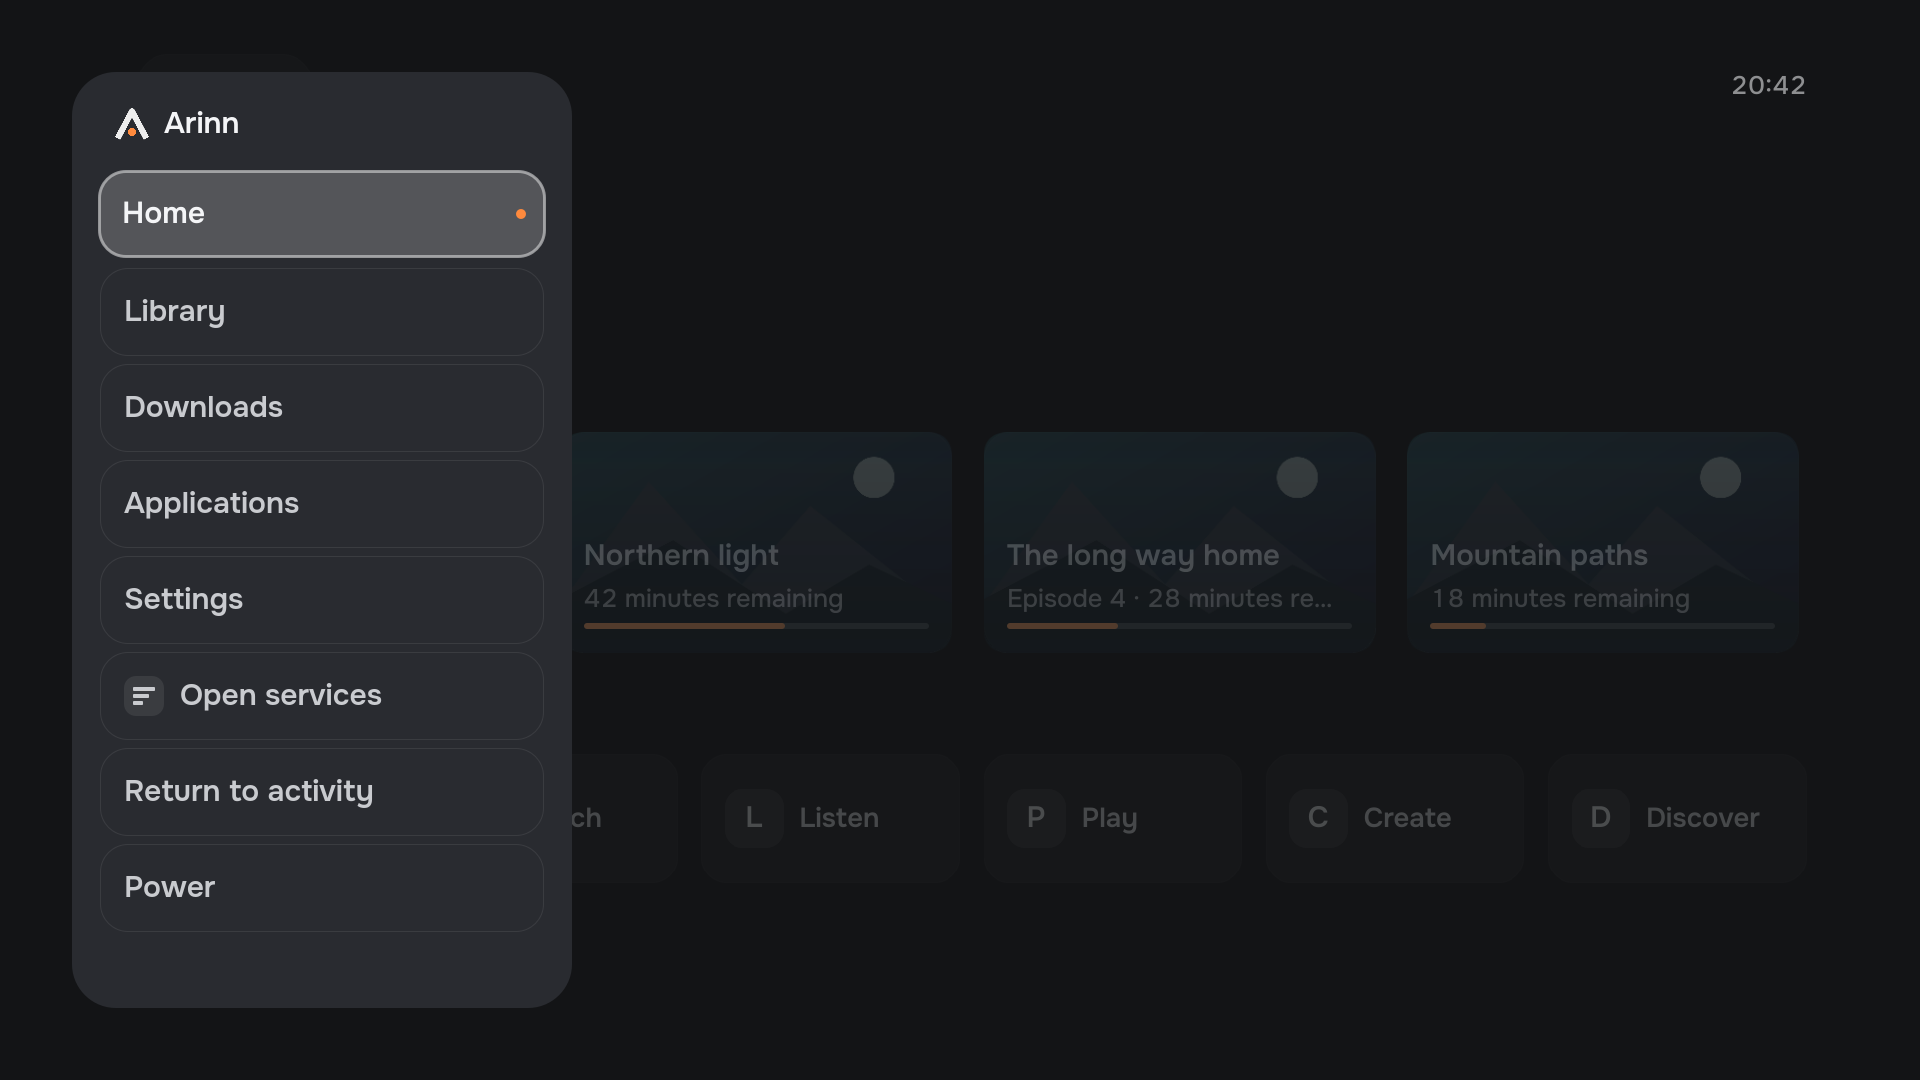
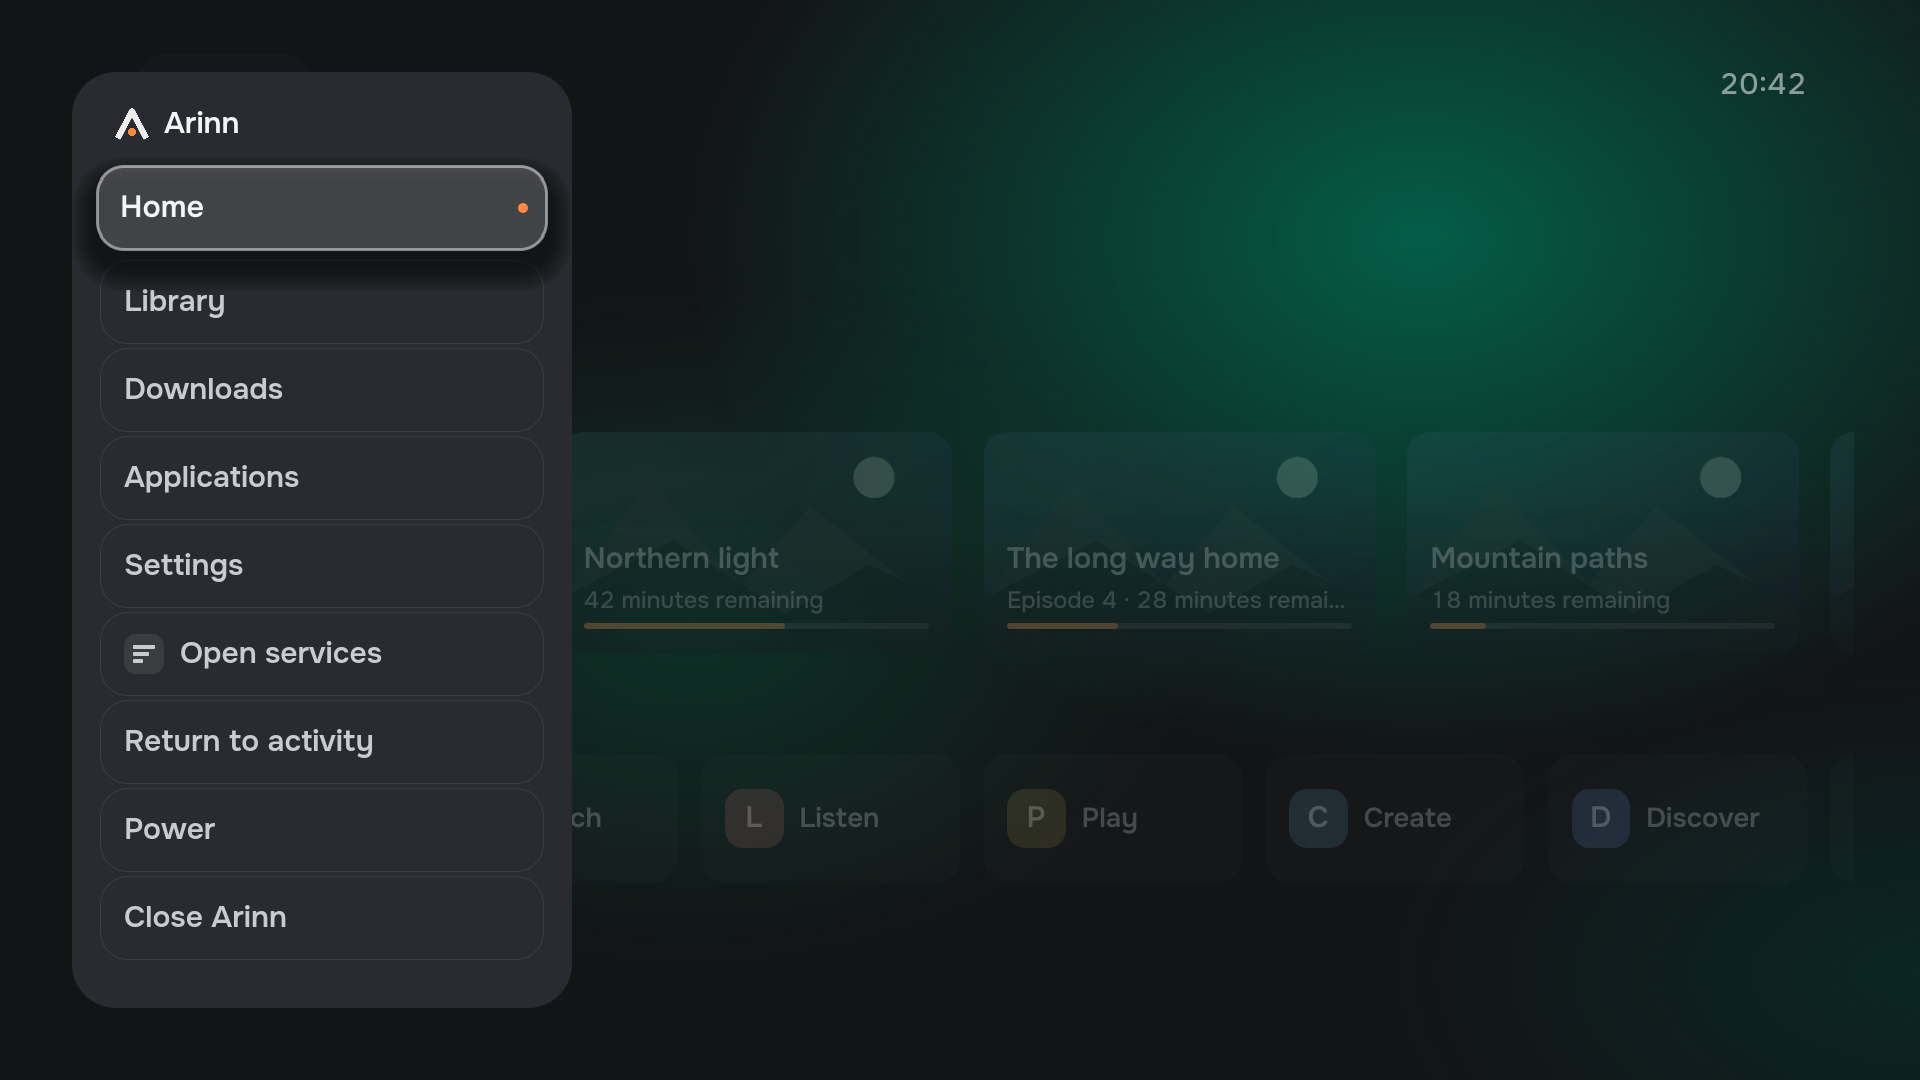
Refresh README and site screenshots of the current shell (#398) (#399)
Recapture the seven gallery screens at 1920x1080 (offscreen, software
renderer, Qt 6.11.2). Home now shows the Now running hero, the ambient
light field and coloured monograms; navigation lists Downloads. The
README captions (EN/RU) follow. The website and handbook take these files
as build inputs.

diff --git a/README.md b/README.md
@@ -51,14 +51,14 @@ Every integration is a separate plugin process talking to a small core over D-Bu
 
 These are screenshots of the **current Qt/QML interface**, rendered by the development gallery at 1920×1080 with fictional fixture data, one shared placeholder image and neutral application monograms. Home, navigation, Library, Applications, Open services, Now playing and Settings use the same views the production shell mounts. The gallery does not connect to a daemon. Names, favorites and settings rows in the fixtures are not a catalogue of finished integrations. See the [UI components](docs/architecture/ui-components.md).
 
-**Home** — the Arinn mark, Continue cards and favorite tiles, with remote-control focus on the return card. The other Continue cards show the placeholder landscape and a progress bar.
+**Home** — the Arinn mark, the Now running hero, Continue cards and favorite tiles over the ambient light field, with remote-control focus on the return card. The other Continue cards show the placeholder landscape and a progress bar.
 
-![Current Arinn Qt Home with Continue cards, the placeholder landscape and favorite tiles](docs/design/current-ui/home.png)
+![Current Arinn Qt Home with the Now running hero, Continue cards, the placeholder landscape and favorite tiles](docs/design/current-ui/home.png)
 
 <details>
 <summary>Navigation screenshot</summary>
 
-**Navigation** — the brand lockup and section menu over a dimmed Home, with Home selected.
+**Navigation** — the brand lockup and section menu (Home, Library, Downloads, Applications, Settings, Open services) over a dimmed Home, with Home selected.
 
 ![Current Arinn Qt navigation with the brand mark and Home selected](docs/design/current-ui/navigation.png)
 

diff --git a/docs/design/current-ui/README.md b/docs/design/current-ui/README.md
@@ -3,7 +3,7 @@
 
 # Current Qt interface captures
 
-Captured on 2026-09-30 at 1920 × 1080 using Qt 6.11.2, the offscreen platform
+Captured on 2026-10-08 at 1920 × 1080 using Qt 6.11.2, the offscreen platform
 and software Qt Quick renderer. These images show the screens the production
 shell mounts: Home, navigation, Library, Applications, Open services, Now
 playing and Settings. They are not the historical HTML prototype.

diff --git a/changes/changed/398-refresh-screenshots.md b/changes/changed/398-refresh-screenshots.md
@@ -1,0 +1,1 @@
+- Refresh the README, website and handbook screenshots of the current shell ([#398](https://github.com/LimeBeck/arinn/issues/398)).
